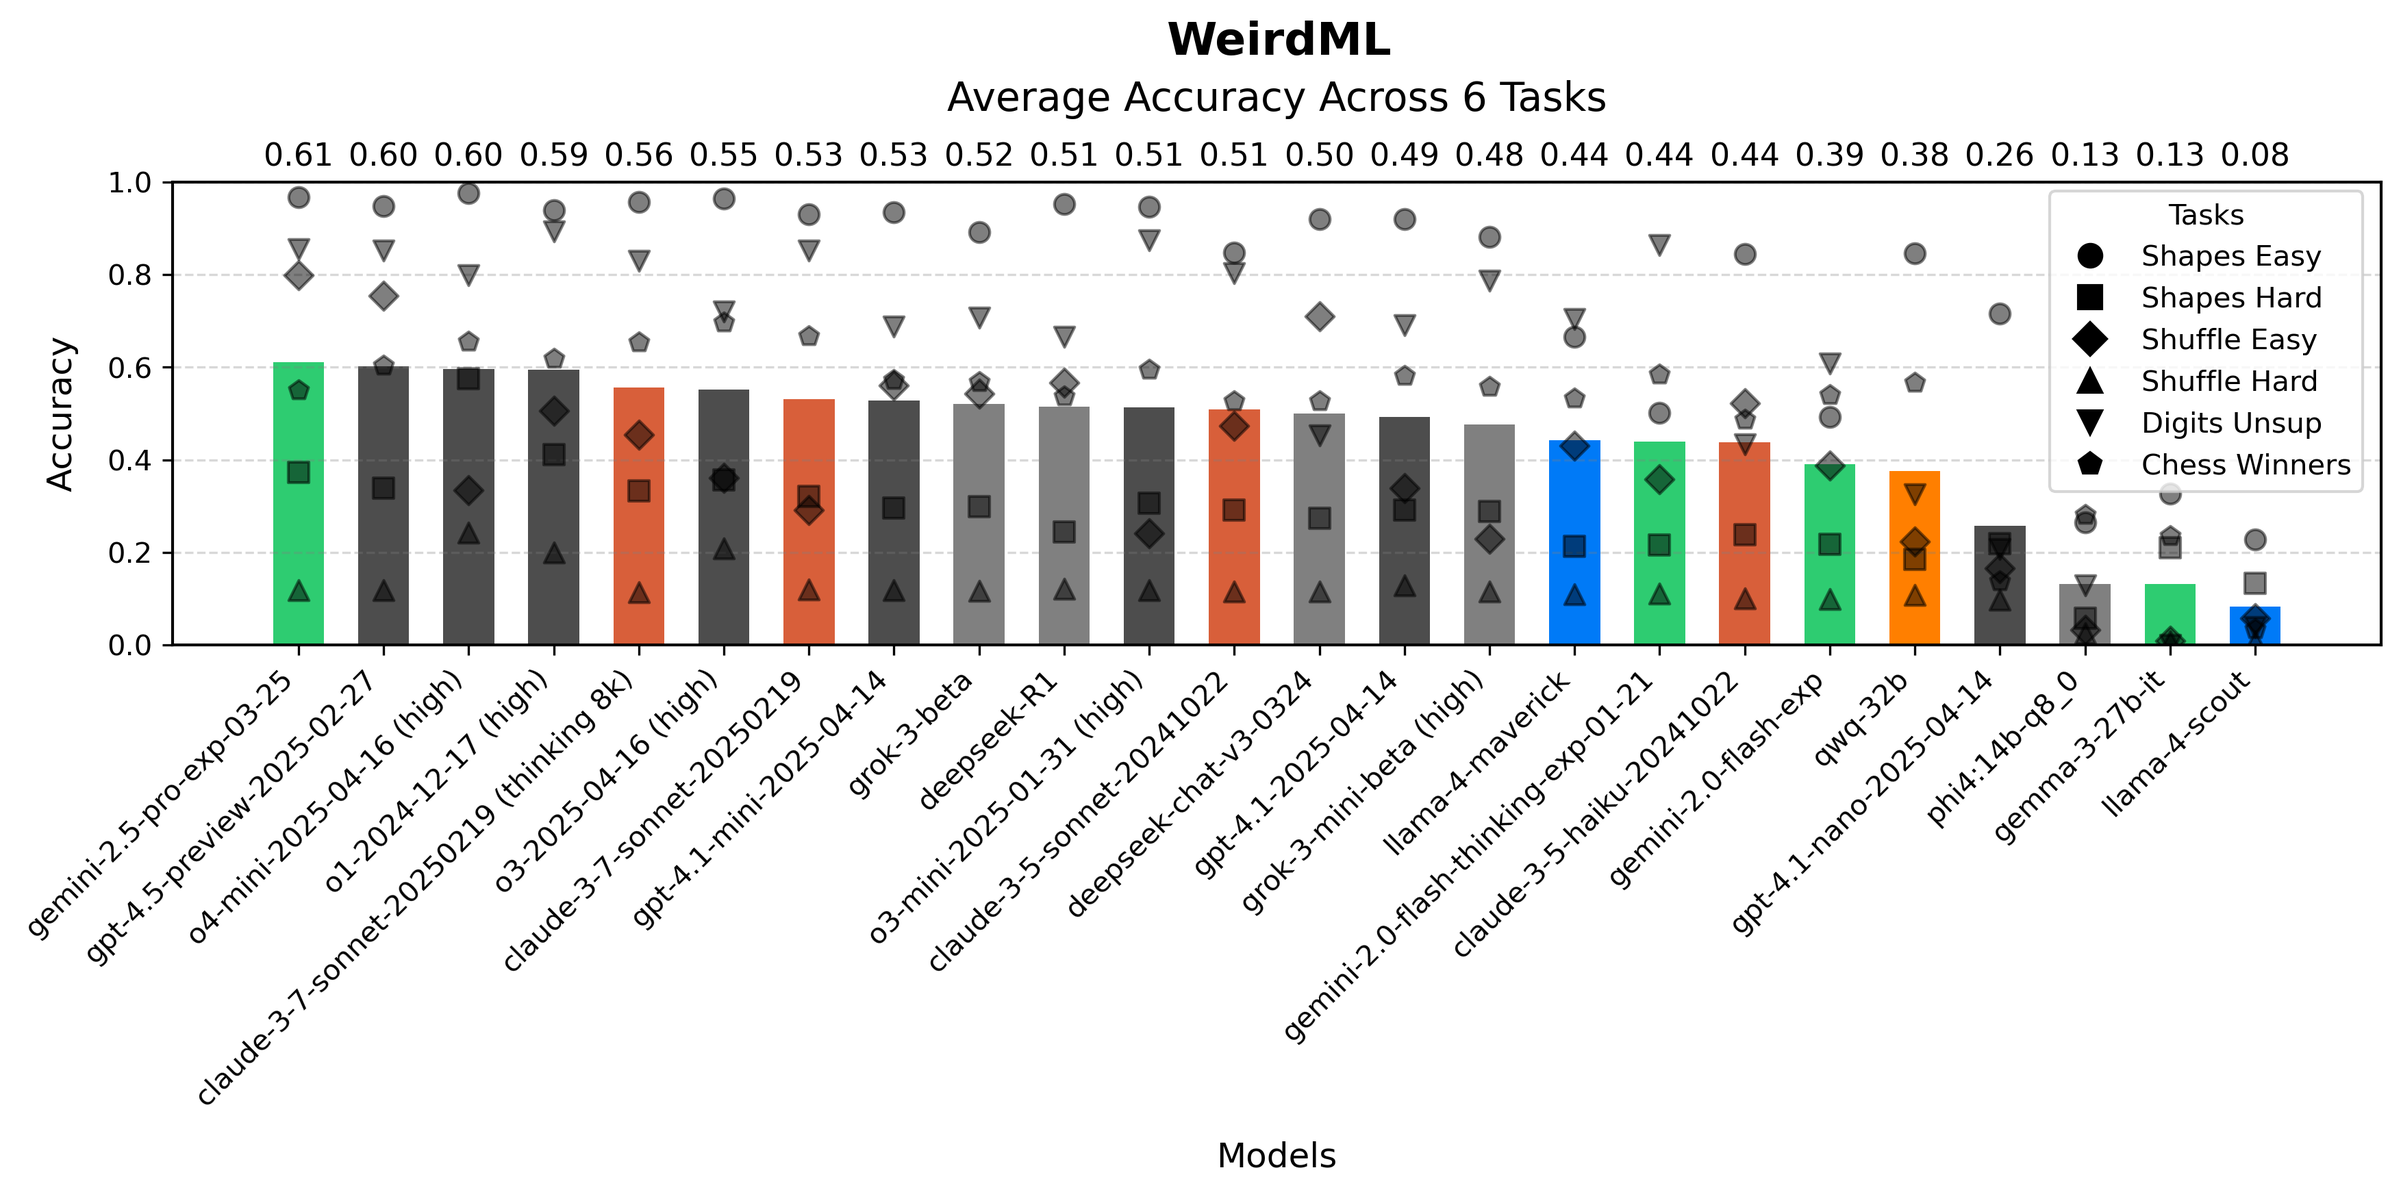
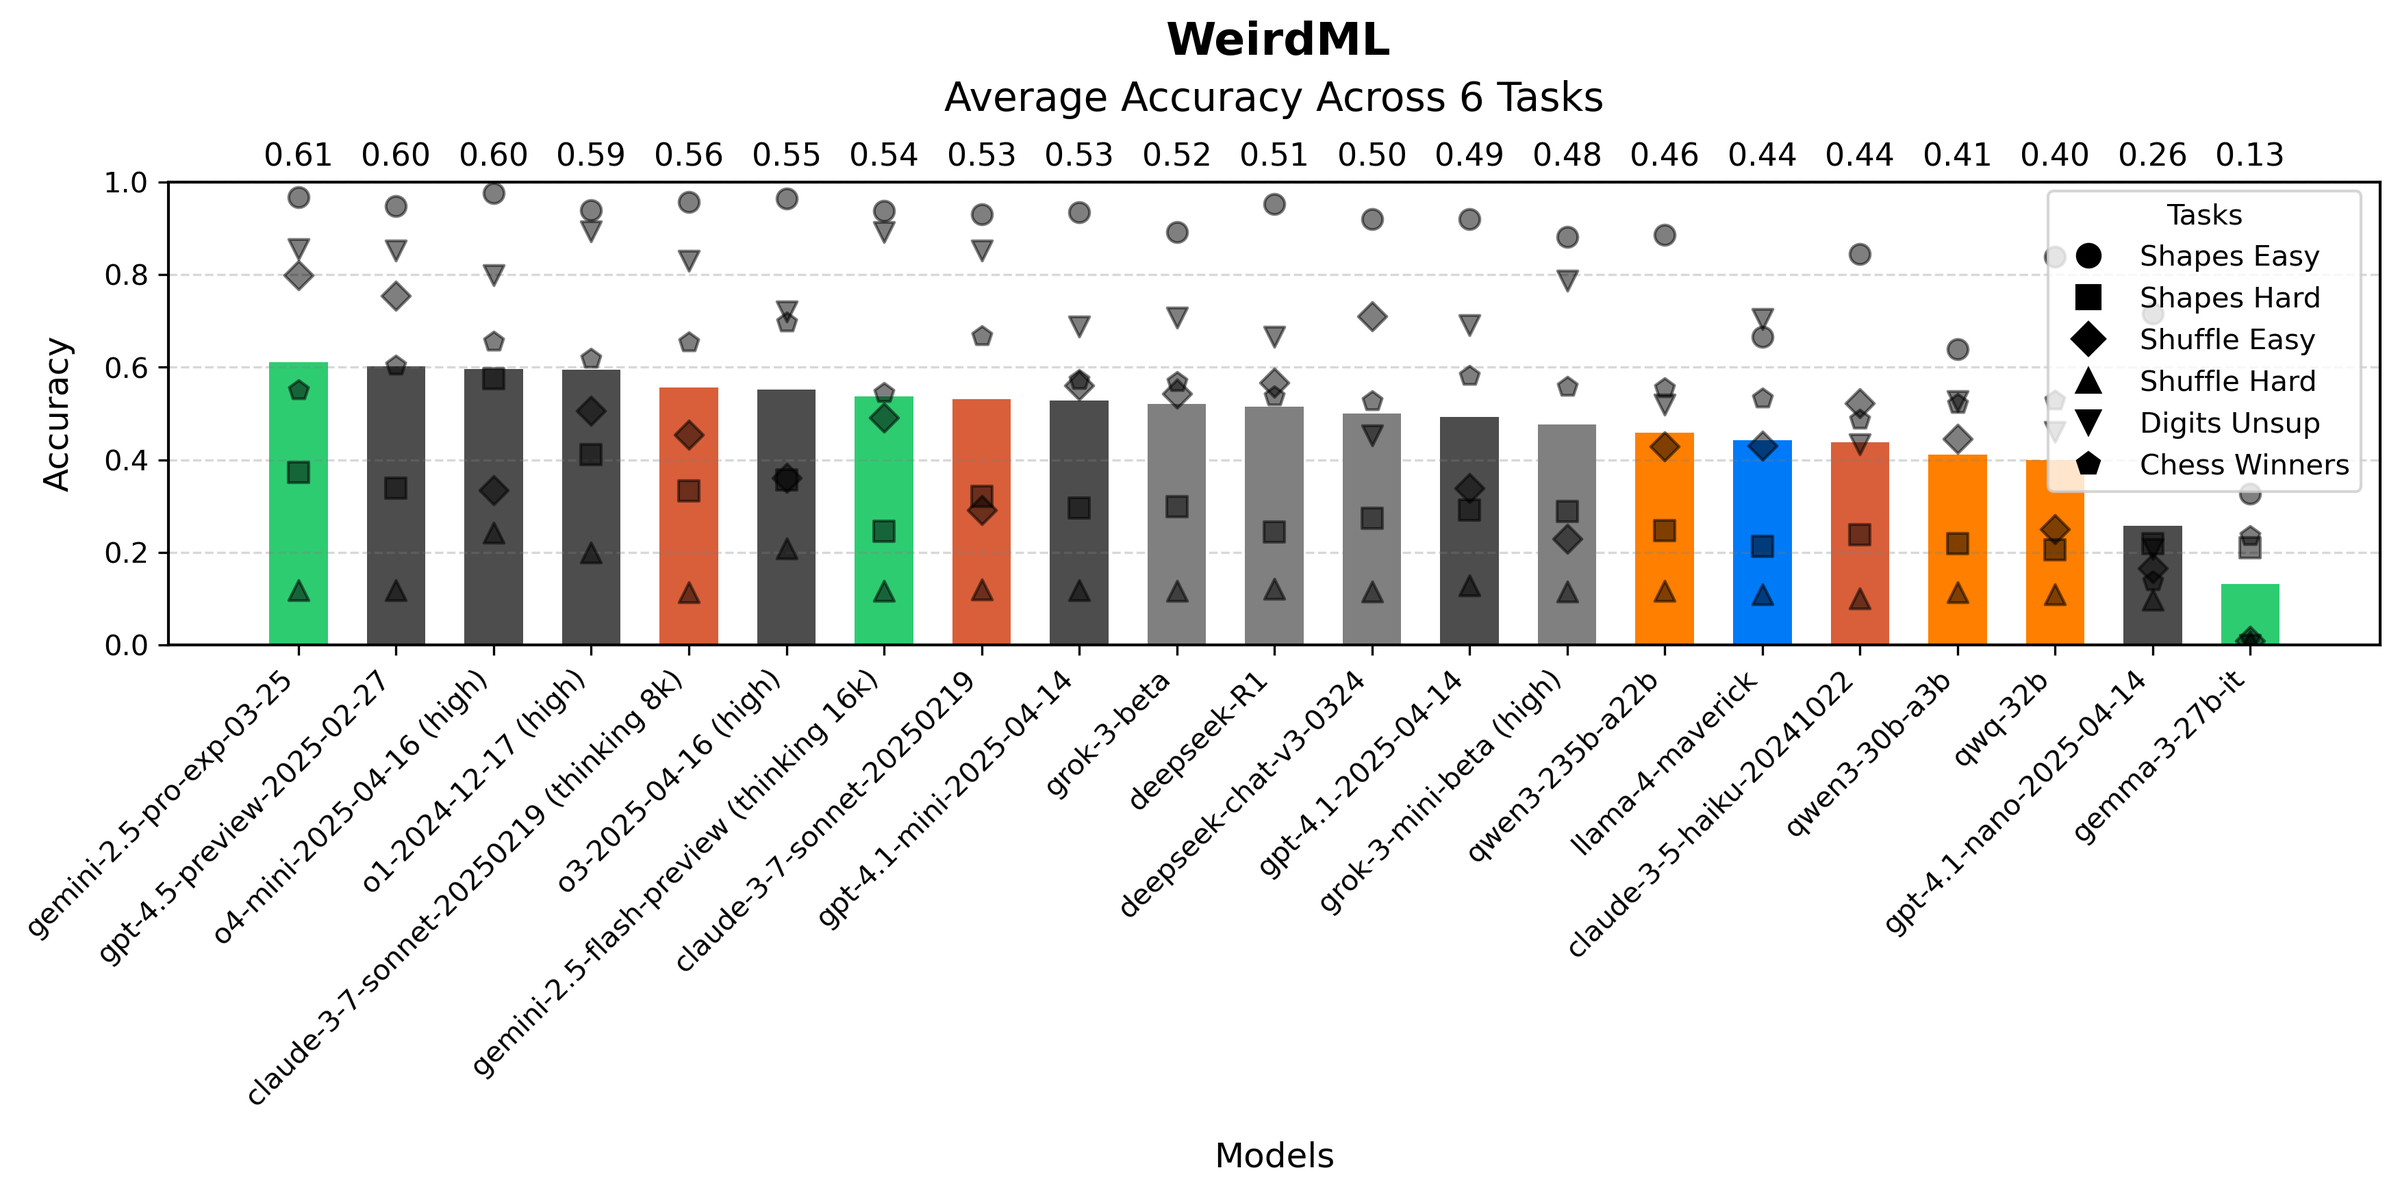
updated with flash2.5 and qwen3

diff --git a/weirdml.md b/weirdml.md
@@ -74,7 +74,7 @@ Each task comes with a task prompt describing the problem precisely and some exa
         <table>
             <tr>
                 <th class="header-cell">Model</th>
-    <th class="header-cell">Shapes Easy</th><th class="header-cell">Shapes Hard</th><th class="header-cell">Shuffle Easy</th><th class="header-cell">Shuffle Hard</th><th class="header-cell">Digits Unsup</th><th class="header-cell">Chess Winners</th><th class="header-cell">Average</th></tr><tr style="background-color: #2dcc7025"><td class="model-cell">gemini-2.5-pro-exp-03-25</td><td>96.70%</td><td>37.33%</td><td>79.83%</td><td>11.77%</td><td>85.55%</td><td>55.09%</td><td><strong>61.05%</strong></td></tr><tr style="background-color: #4c4c4c25"><td class="model-cell">gpt-4.5-preview-2025-02-27</td><td>94.86%</td><td>33.88%</td><td>75.42%</td><td>11.89%</td><td>85.24%</td><td>60.30%</td><td><strong>60.26%</strong></td></tr><tr style="background-color: #4c4c4c25"><td class="model-cell">o4-mini-2025-04-16 (high)</td><td>97.55%</td><td>57.47%</td><td>33.35%</td><td>24.31%</td><td>79.92%</td><td>65.47%</td><td><strong>59.68%</strong></td></tr><tr style="background-color: #4c4c4c25"><td class="model-cell">o1-2024-12-17 (high)</td><td>93.86%</td><td>41.12%</td><td>50.66%</td><td>19.97%</td><td>89.40%</td><td>61.80%</td><td><strong>59.47%</strong></td></tr><tr style="background-color: #d75f3a25"><td class="model-cell">claude-3-7-sonnet-20250219 (thinking 8k)</td><td>95.74%</td><td>33.24%</td><td>45.48%</td><td>11.35%</td><td>83.00%</td><td>65.32%</td><td><strong>55.69%</strong></td></tr><tr style="background-color: #4c4c4c25"><td class="model-cell">o3-2025-04-16 (high)</td><td>96.40%</td><td>35.64%</td><td>36.16%</td><td>20.81%</td><td>72.08%</td><td>69.68%</td><td><strong>55.13%</strong></td></tr><tr style="background-color: #d75f3a25"><td class="model-cell">claude-3-7-sonnet-20250219</td><td>92.99%</td><td>32.10%</td><td>29.15%</td><td>11.99%</td><td>85.19%</td><td>66.77%</td><td><strong>53.03%</strong></td></tr><tr style="background-color: #4c4c4c25"><td class="model-cell">gpt-4.1-mini-2025-04-14</td><td>93.43%</td><td>29.56%</td><td>56.07%</td><td>11.83%</td><td>68.84%</td><td>57.27%</td><td><strong>52.83%</strong></td></tr><tr style="background-color: #7f7f7f25"><td class="model-cell">grok-3-beta</td><td>89.13%</td><td>29.83%</td><td>54.32%</td><td>11.74%</td><td>70.67%</td><td>56.79%</td><td><strong>52.08%</strong></td></tr><tr style="background-color: #7f7f7f25"><td class="model-cell">deepseek-R1</td><td>95.21%</td><td>24.47%</td><td>56.61%</td><td>12.17%</td><td>66.51%</td><td>53.67%</td><td><strong>51.44%</strong></td></tr><tr style="background-color: #4c4c4c25"><td class="model-cell">o3-mini-2025-01-31 (high)</td><td>94.65%</td><td>30.61%</td><td>24.17%</td><td>11.76%</td><td>87.39%</td><td>59.42%</td><td><strong>51.33%</strong></td></tr><tr style="background-color: #d75f3a25"><td class="model-cell">claude-3-5-sonnet-20241022</td><td>84.79%</td><td>29.12%</td><td>47.39%</td><td>11.46%</td><td>80.27%</td><td>52.62%</td><td><strong>50.94%</strong></td></tr><tr style="background-color: #7f7f7f25"><td class="model-cell">deepseek-chat-v3-0324</td><td>91.99%</td><td>27.31%</td><td>71.05%</td><td>11.49%</td><td>45.29%</td><td>52.59%</td><td><strong>49.95%</strong></td></tr><tr style="background-color: #4c4c4c25"><td class="model-cell">gpt-4.1-2025-04-14</td><td>91.97%</td><td>29.09%</td><td>33.89%</td><td>12.91%</td><td>69.15%</td><td>58.19%</td><td><strong>49.20%</strong></td></tr><tr style="background-color: #4c4c4c25"><td class="model-cell">o1-preview-2024-09-12</td><td>98.02%</td><td>32.00%</td><td>56.03%</td><td>11.80%</td><td>36.08%</td><td>58.96%</td><td><strong>48.82%</strong></td></tr><tr style="background-color: #7f7f7f25"><td class="model-cell">grok-3-mini-beta (high)</td><td>88.18%</td><td>28.89%</td><td>23.00%</td><td>11.58%</td><td>78.71%</td><td>55.69%</td><td><strong>47.67%</strong></td></tr><tr style="background-color: #4c4c4c25"><td class="model-cell">o1-mini-2024-09-12</td><td>87.73%</td><td>26.49%</td><td>44.51%</td><td>11.44%</td><td>47.41%</td><td>55.89%</td><td><strong>45.58%</strong></td></tr><tr style="background-color: #0079f725"><td class="model-cell">llama-4-maverick</td><td>66.57%</td><td>21.27%</td><td>43.09%</td><td>10.94%</td><td>70.35%</td><td>53.21%</td><td><strong>44.24%</strong></td></tr><tr style="background-color: #2dcc7025"><td class="model-cell">gemini-2.0-flash-thinking-exp-01-21</td><td>50.17%</td><td>21.53%</td><td>35.85%</td><td>11.09%</td><td>86.41%</td><td>58.37%</td><td><strong>43.90%</strong></td></tr><tr style="background-color: #d75f3a25"><td class="model-cell">claude-3-5-haiku-20241022</td><td>84.39%</td><td>23.85%</td><td>52.23%</td><td>10.07%</td><td>43.33%</td><td>48.66%</td><td><strong>43.75%</strong></td></tr><tr style="background-color: #2dcc7025"><td class="model-cell">gemini-2.0-flash-exp</td><td>49.25%</td><td>21.76%</td><td>38.74%</td><td>9.83%</td><td>60.75%</td><td>53.98%</td><td><strong>39.05%</strong></td></tr><tr style="background-color: #2dcc7025"><td class="model-cell">gemini-2.0-pro-exp-02-05</td><td>47.41%</td><td>22.05%</td><td>39.53%</td><td>11.33%</td><td>57.15%</td><td>50.71%</td><td><strong>38.03%</strong></td></tr><tr style="background-color: #ff7e0025"><td class="model-cell">qwq-32b</td><td>84.53%</td><td>18.53%</td><td>22.31%</td><td>10.81%</td><td>32.50%</td><td>56.63%</td><td><strong>37.55%</strong></td></tr><tr style="background-color: #7f7f7f25"><td class="model-cell">deepseek-v3</td><td>72.65%</td><td>21.70%</td><td>32.99%</td><td>10.78%</td><td>33.82%</td><td>52.30%</td><td><strong>37.37%</strong></td></tr><tr style="background-color: #4c4c4c25"><td class="model-cell">gpt-4o-2024-11-20</td><td>68.95%</td><td>23.28%</td><td>36.75%</td><td>10.90%</td><td>29.77%</td><td>47.22%</td><td><strong>36.15%</strong></td></tr><tr style="background-color: #7f7f7f25"><td class="model-cell">grok-2-1212</td><td>70.59%</td><td>21.40%</td><td>14.53%</td><td>5.40%</td><td>14.36%</td><td>39.45%</td><td><strong>27.62%</strong></td></tr><tr style="background-color: #ff7e0025"><td class="model-cell">qwq:32b-preview-q8_0</td><td>57.06%</td><td>18.44%</td><td>16.56%</td><td>6.46%</td><td>10.94%</td><td>45.32%</td><td><strong>25.80%</strong></td></tr><tr style="background-color: #4c4c4c25"><td class="model-cell">gpt-4.1-nano-2025-04-14</td><td>71.63%</td><td>21.85%</td><td>16.61%</td><td>9.75%</td><td>20.76%</td><td>13.76%</td><td><strong>25.73%</strong></td></tr><tr style="background-color: #ff7e0025"><td class="model-cell">qwen2.5-coder:32b-instruct-q8_0</td><td>55.75%</td><td>18.67%</td><td>16.16%</td><td>6.52%</td><td>10.53%</td><td>44.89%</td><td><strong>25.42%</strong></td></tr><tr style="background-color: #4c4c4c25"><td class="model-cell">gpt-4o-mini-2024-07-18</td><td>32.93%</td><td>19.95%</td><td>18.83%</td><td>4.87%</td><td>27.00%</td><td>38.28%</td><td><strong>23.64%</strong></td></tr><tr style="background-color: #0079f725"><td class="model-cell">llama3.3:70b-instruct-q8_0</td><td>40.86%</td><td>20.85%</td><td>9.86%</td><td>2.52%</td><td>22.35%</td><td>44.44%</td><td><strong>23.48%</strong></td></tr><tr style="background-color: #0079f725"><td class="model-cell">llama3.1:405b-instruct-q4_K_M</td><td>41.91%</td><td>19.41%</td><td>5.19%</td><td>2.27%</td><td>31.85%</td><td>37.40%</td><td><strong>23.00%</strong></td></tr><tr style="background-color: #7f7f7f25"><td class="model-cell">phi4:14b-q8_0</td><td>26.48%</td><td>5.73%</td><td>3.30%</td><td>2.44%</td><td>12.92%</td><td>28.08%</td><td><strong>13.16%</strong></td></tr><tr style="background-color: #2dcc7025"><td class="model-cell">gemma-3-27b-it</td><td>32.75%</td><td>20.95%</td><td>0.87%</td><td>0.74%</td><td>0.00%</td><td>23.54%</td><td><strong>13.14%</strong></td></tr><tr style="background-color: #0079f725"><td class="model-cell">llama-4-scout</td><td>22.77%</td><td>13.38%</td><td>5.70%</td><td>0.76%</td><td>3.87%</td><td>3.37%</td><td><strong>8.31%</strong></td></tr><tr style="background-color: #2dcc7025"><td class="model-cell">gemma2:27b-instruct-q8_0</td><td>21.51%</td><td>8.76%</td><td>0.00%</td><td>1.49%</td><td>0.00%</td><td>0.00%</td><td><strong>5.30%</strong></td></tr><tr style="background-color: #0079f725"><td class="model-cell">llama3.1:8b-instruct-q8_0</td><td>6.77%</td><td>2.22%</td><td>0.66%</td><td>0.76%</td><td>1.35%</td><td>0.00%</td><td><strong>1.96%</strong></td></tr>
+    <th class="header-cell">Shapes Easy</th><th class="header-cell">Shapes Hard</th><th class="header-cell">Shuffle Easy</th><th class="header-cell">Shuffle Hard</th><th class="header-cell">Digits Unsup</th><th class="header-cell">Chess Winners</th><th class="header-cell">Average</th></tr><tr style="background-color: #2dcc7025"><td class="model-cell">gemini-2.5-pro-exp-03-25</td><td>96.70%</td><td>37.33%</td><td>79.83%</td><td>11.77%</td><td>85.55%</td><td>55.09%</td><td><strong>61.05%</strong></td></tr><tr style="background-color: #4c4c4c25"><td class="model-cell">gpt-4.5-preview-2025-02-27</td><td>94.86%</td><td>33.88%</td><td>75.42%</td><td>11.89%</td><td>85.24%</td><td>60.30%</td><td><strong>60.26%</strong></td></tr><tr style="background-color: #4c4c4c25"><td class="model-cell">o4-mini-2025-04-16 (high)</td><td>97.55%</td><td>57.47%</td><td>33.35%</td><td>24.31%</td><td>79.92%</td><td>65.47%</td><td><strong>59.68%</strong></td></tr><tr style="background-color: #4c4c4c25"><td class="model-cell">o1-2024-12-17 (high)</td><td>93.86%</td><td>41.12%</td><td>50.66%</td><td>19.97%</td><td>89.40%</td><td>61.80%</td><td><strong>59.47%</strong></td></tr><tr style="background-color: #d75f3a25"><td class="model-cell">claude-3-7-sonnet-20250219 (thinking 8k)</td><td>95.74%</td><td>33.24%</td><td>45.48%</td><td>11.35%</td><td>83.00%</td><td>65.32%</td><td><strong>55.69%</strong></td></tr><tr style="background-color: #4c4c4c25"><td class="model-cell">o3-2025-04-16 (high)</td><td>96.40%</td><td>35.64%</td><td>36.16%</td><td>20.81%</td><td>72.08%</td><td>69.68%</td><td><strong>55.13%</strong></td></tr><tr style="background-color: #2dcc7025"><td class="model-cell">gemini-2.5-flash-preview (thinking 16k)</td><td>93.73%</td><td>24.58%</td><td>49.07%</td><td>11.65%</td><td>89.18%</td><td>54.36%</td><td><strong>53.76%</strong></td></tr><tr style="background-color: #d75f3a25"><td class="model-cell">claude-3-7-sonnet-20250219</td><td>92.99%</td><td>32.10%</td><td>29.15%</td><td>11.99%</td><td>85.19%</td><td>66.77%</td><td><strong>53.03%</strong></td></tr><tr style="background-color: #4c4c4c25"><td class="model-cell">gpt-4.1-mini-2025-04-14</td><td>93.43%</td><td>29.56%</td><td>56.07%</td><td>11.83%</td><td>68.84%</td><td>57.27%</td><td><strong>52.83%</strong></td></tr><tr style="background-color: #7f7f7f25"><td class="model-cell">grok-3-beta</td><td>89.13%</td><td>29.83%</td><td>54.32%</td><td>11.74%</td><td>70.67%</td><td>56.79%</td><td><strong>52.08%</strong></td></tr><tr style="background-color: #7f7f7f25"><td class="model-cell">deepseek-R1</td><td>95.21%</td><td>24.47%</td><td>56.61%</td><td>12.17%</td><td>66.51%</td><td>53.67%</td><td><strong>51.44%</strong></td></tr><tr style="background-color: #4c4c4c25"><td class="model-cell">o3-mini-2025-01-31 (high)</td><td>94.65%</td><td>30.61%</td><td>24.17%</td><td>11.76%</td><td>87.39%</td><td>59.42%</td><td><strong>51.33%</strong></td></tr><tr style="background-color: #d75f3a25"><td class="model-cell">claude-3-5-sonnet-20241022</td><td>84.79%</td><td>29.12%</td><td>47.39%</td><td>11.46%</td><td>80.27%</td><td>52.62%</td><td><strong>50.94%</strong></td></tr><tr style="background-color: #7f7f7f25"><td class="model-cell">deepseek-chat-v3-0324</td><td>91.99%</td><td>27.31%</td><td>71.05%</td><td>11.49%</td><td>45.29%</td><td>52.59%</td><td><strong>49.95%</strong></td></tr><tr style="background-color: #4c4c4c25"><td class="model-cell">gpt-4.1-2025-04-14</td><td>91.97%</td><td>29.09%</td><td>33.89%</td><td>12.91%</td><td>69.15%</td><td>58.19%</td><td><strong>49.20%</strong></td></tr><tr style="background-color: #4c4c4c25"><td class="model-cell">o1-preview-2024-09-12</td><td>98.02%</td><td>32.00%</td><td>56.03%</td><td>11.80%</td><td>36.08%</td><td>58.96%</td><td><strong>48.82%</strong></td></tr><tr style="background-color: #7f7f7f25"><td class="model-cell">grok-3-mini-beta (high)</td><td>88.18%</td><td>28.89%</td><td>23.00%</td><td>11.58%</td><td>78.71%</td><td>55.69%</td><td><strong>47.67%</strong></td></tr><tr style="background-color: #ff7e0025"><td class="model-cell">qwen3-235b-a22b</td><td>88.56%</td><td>24.77%</td><td>42.93%</td><td>11.70%</td><td>51.85%</td><td>55.44%</td><td><strong>45.87%</strong></td></tr><tr style="background-color: #4c4c4c25"><td class="model-cell">o1-mini-2024-09-12</td><td>87.73%</td><td>26.49%</td><td>44.51%</td><td>11.44%</td><td>47.41%</td><td>55.89%</td><td><strong>45.58%</strong></td></tr><tr style="background-color: #0079f725"><td class="model-cell">llama-4-maverick</td><td>66.57%</td><td>21.27%</td><td>43.09%</td><td>10.94%</td><td>70.35%</td><td>53.21%</td><td><strong>44.24%</strong></td></tr><tr style="background-color: #2dcc7025"><td class="model-cell">gemini-2.0-flash-thinking-exp-01-21</td><td>50.17%</td><td>21.53%</td><td>35.85%</td><td>11.09%</td><td>86.41%</td><td>58.37%</td><td><strong>43.90%</strong></td></tr><tr style="background-color: #d75f3a25"><td class="model-cell">claude-3-5-haiku-20241022</td><td>84.39%</td><td>23.85%</td><td>52.23%</td><td>10.07%</td><td>43.33%</td><td>48.66%</td><td><strong>43.75%</strong></td></tr><tr style="background-color: #ff7e0025"><td class="model-cell">qwen3-30b-a3b</td><td>63.87%</td><td>21.87%</td><td>44.45%</td><td>11.46%</td><td>52.61%</td><td>52.08%</td><td><strong>41.06%</strong></td></tr><tr style="background-color: #ff7e0025"><td class="model-cell">qwq-32b</td><td>83.94%</td><td>20.58%</td><td>24.98%</td><td>10.99%</td><td>45.96%</td><td>52.87%</td><td><strong>39.89%</strong></td></tr><tr style="background-color: #2dcc7025"><td class="model-cell">gemini-2.0-flash-exp</td><td>49.25%</td><td>21.76%</td><td>38.74%</td><td>9.83%</td><td>60.75%</td><td>53.98%</td><td><strong>39.05%</strong></td></tr><tr style="background-color: #2dcc7025"><td class="model-cell">gemini-2.0-pro-exp-02-05</td><td>47.41%</td><td>22.05%</td><td>39.53%</td><td>11.33%</td><td>57.15%</td><td>50.71%</td><td><strong>38.03%</strong></td></tr><tr style="background-color: #7f7f7f25"><td class="model-cell">deepseek-v3</td><td>72.65%</td><td>21.70%</td><td>32.99%</td><td>10.78%</td><td>33.82%</td><td>52.30%</td><td><strong>37.37%</strong></td></tr><tr style="background-color: #4c4c4c25"><td class="model-cell">gpt-4o-2024-11-20</td><td>68.95%</td><td>23.28%</td><td>36.75%</td><td>10.90%</td><td>29.77%</td><td>47.22%</td><td><strong>36.15%</strong></td></tr><tr style="background-color: #7f7f7f25"><td class="model-cell">grok-2-1212</td><td>70.59%</td><td>21.40%</td><td>14.53%</td><td>5.40%</td><td>14.36%</td><td>39.45%</td><td><strong>27.62%</strong></td></tr><tr style="background-color: #ff7e0025"><td class="model-cell">qwq:32b-preview-q8_0</td><td>57.06%</td><td>18.44%</td><td>16.56%</td><td>6.46%</td><td>10.94%</td><td>45.32%</td><td><strong>25.80%</strong></td></tr><tr style="background-color: #4c4c4c25"><td class="model-cell">gpt-4.1-nano-2025-04-14</td><td>71.63%</td><td>21.85%</td><td>16.61%</td><td>9.75%</td><td>20.76%</td><td>13.76%</td><td><strong>25.73%</strong></td></tr><tr style="background-color: #ff7e0025"><td class="model-cell">qwen2.5-coder:32b-instruct-q8_0</td><td>55.75%</td><td>18.67%</td><td>16.16%</td><td>6.52%</td><td>10.53%</td><td>44.89%</td><td><strong>25.42%</strong></td></tr><tr style="background-color: #4c4c4c25"><td class="model-cell">gpt-4o-mini-2024-07-18</td><td>32.93%</td><td>19.95%</td><td>18.83%</td><td>4.87%</td><td>27.00%</td><td>38.28%</td><td><strong>23.64%</strong></td></tr><tr style="background-color: #0079f725"><td class="model-cell">llama3.3:70b-instruct-q8_0</td><td>40.86%</td><td>20.85%</td><td>9.86%</td><td>2.52%</td><td>22.35%</td><td>44.44%</td><td><strong>23.48%</strong></td></tr><tr style="background-color: #0079f725"><td class="model-cell">llama3.1:405b-instruct-q4_K_M</td><td>41.91%</td><td>19.41%</td><td>5.19%</td><td>2.27%</td><td>31.85%</td><td>37.40%</td><td><strong>23.00%</strong></td></tr><tr style="background-color: #7f7f7f25"><td class="model-cell">phi4:14b-q8_0</td><td>26.48%</td><td>5.73%</td><td>3.30%</td><td>2.44%</td><td>12.92%</td><td>28.08%</td><td><strong>13.16%</strong></td></tr><tr style="background-color: #2dcc7025"><td class="model-cell">gemma-3-27b-it</td><td>32.75%</td><td>20.95%</td><td>0.87%</td><td>0.74%</td><td>0.00%</td><td>23.54%</td><td><strong>13.14%</strong></td></tr><tr style="background-color: #0079f725"><td class="model-cell">llama-4-scout</td><td>22.77%</td><td>13.38%</td><td>5.70%</td><td>0.76%</td><td>3.87%</td><td>3.37%</td><td><strong>8.31%</strong></td></tr><tr style="background-color: #2dcc7025"><td class="model-cell">gemma2:27b-instruct-q8_0</td><td>21.51%</td><td>8.76%</td><td>0.00%</td><td>1.49%</td><td>0.00%</td><td>0.00%</td><td><strong>5.30%</strong></td></tr><tr style="background-color: #0079f725"><td class="model-cell">llama3.1:8b-instruct-q8_0</td><td>6.77%</td><td>2.22%</td><td>0.66%</td><td>0.76%</td><td>1.35%</td><td>0.00%</td><td><strong>1.96%</strong></td></tr>
         </table>
     </div>
     <p><em>Average accuracy across all six tasks for each model.</em></p>
